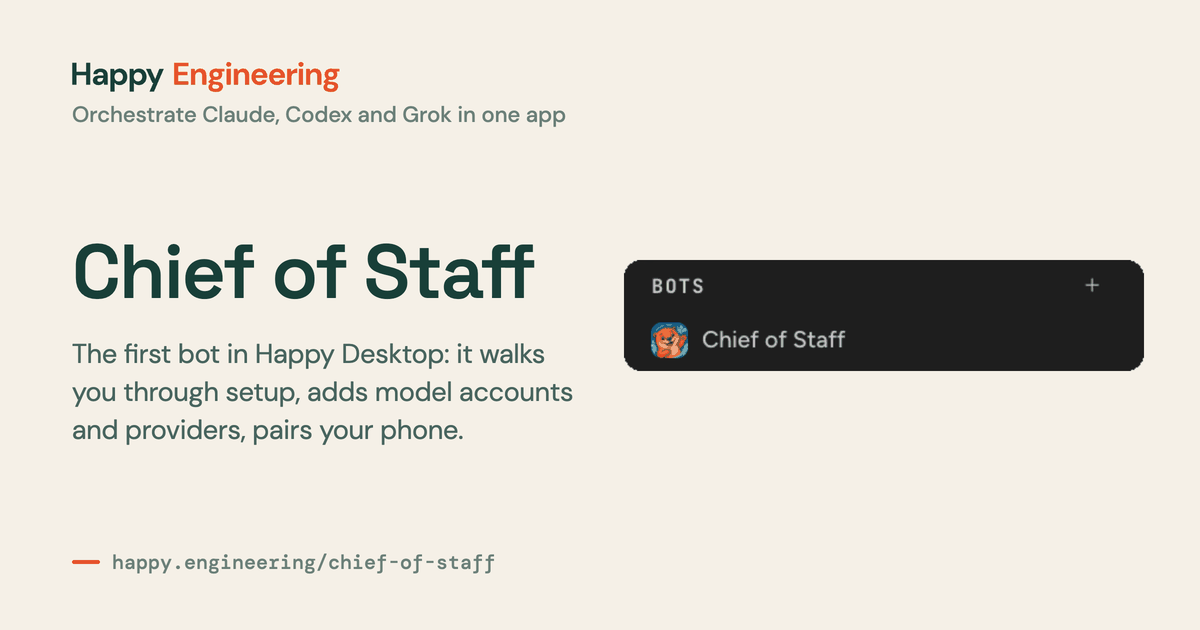
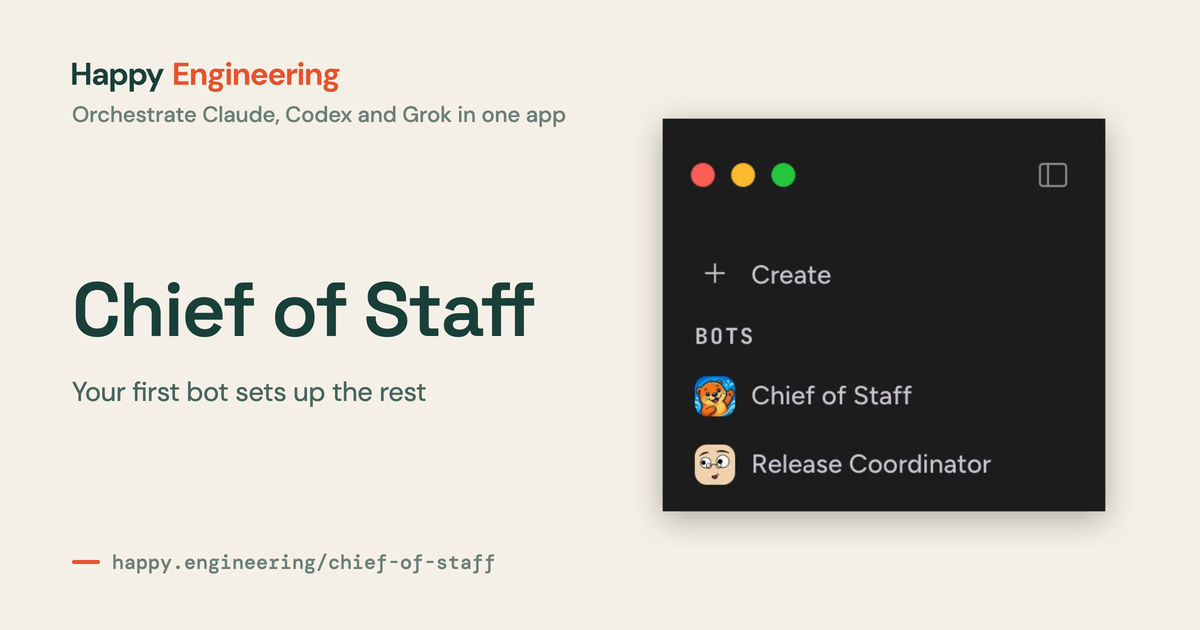
Homepage multiplayer blurb says what we offer; Chief of Staff card gets a full-size sidebar cutout and a selling point
- "Natively multiplayer": deploy a team server, everyone signs in as themselves and shares the
  same projects and sessions (content/desktop/multiplayer.mdx). The per-session invite claim is
  gone from the homepage and the thesis draft.
- cards.py: CARD_FIGURES names a larger card-only cutout in notes/og/figures/ where the page's
  figure is too small; a cardLine also replaces the description on a card with a figure;
  screenshots stay full color.
- chief-of-staff.png: the sidebar from the homepage demo's first frame, and "Your first bot
  sets up the rest".

Changed region(s): [[0.4933, 0.181, 0.9558, 0.8444], [0.0617, 0.3619, 0.4933, 0.6937]]

diff --git a/src/documents.ts b/src/documents.ts
@@ -24,8 +24,8 @@ export interface DocumentEntry {
   /** An essay: rendered with captioned figures, floats, and the pig in its bullet (src/DocumentPages.tsx). */
   essay?: boolean
   /**
-   * A page without a figure: what its link-preview card says under the title, in place of the
-   * description. Four to eight words, benefit first, no closing period (notes/og/cards.py).
+   * What the link-preview card says under the title, in place of the description: four to eight
+   * words, benefit first, no closing period. Required on a page without a figure (notes/og/cards.py).
    */
   cardLine?: string
 }
@@ -212,6 +212,7 @@ const desktopDocuments: DocumentDefinition[] = [
     title: 'Chief of Staff',
     pageTitle: 'Chief of Staff: The Built-In Bot That Sets Up Happy Desktop',
     description: 'The first bot in Happy Desktop: it walks you through setup, adds model accounts and providers, pairs your phone, and deploys servers, in conversation.',
+    cardLine: 'Your first bot sets up the rest',
     group: 'Start here',
   },
   {

diff --git a/src/DesktopApp.tsx b/src/DesktopApp.tsx
@@ -27,7 +27,7 @@ const features = [
   },
   {
     title: 'Natively multiplayer',
-    body: 'Invite a colleague or a friend into the session. You both watch the same agent work, and either of you can steer it.',
+    body: 'Deploy a team server and work together. Everyone signs in as themselves and shares the same projects and sessions.',
   },
 ] as const
 

diff --git a/notes/og/cards.py b/notes/og/cards.py
@@ -1,8 +1,8 @@
 # Writes public/og/<slug>.png, the 1200x630 link preview of every desktop doc: the
 # Happy Engineering wordmark with the descriptor under it, the page's title and description, its URL, and its
-# figure (the first image on the page) on the right. A page without a figure gives the title the
-# full width and puts its cardLine (src/documents.ts) in place of the description. The original
-# CLI docs under /docs/ keep the homepage's card.
+# figure (the first image on the page) on the right. A page's cardLine (src/documents.ts), where it
+# has one, replaces the description; a page without a figure must have one, and gives the title
+# the full width. The original CLI docs under /docs/ keep the homepage's card.
 #
 # Run from the repository root after adding or retitling a desktop doc:
 #   python3 notes/og/cards.py            # every desktop doc
@@ -42,6 +42,11 @@ FONT_FILES = {
 FIGURE_OVERRIDES = {
     "/vision/": "/thesis/layout.svg",
 }
+# Where the page's own figure is too small for a card: a larger cutout kept in notes/og/figures/.
+CARD_FIGURES = {
+    # The sidebar from the homepage demo (public/video/happy-one/v22/desktop.mp4, first frame).
+    "/chief-of-staff/": "/__figures/chief-of-staff-sidebar.png",
+}
 
 W, H = 1200, 630
 # Under the wordmark on every card, as on public/img/tailcat-x.png; src/products.ts HAPPY_DESCRIPTOR.
@@ -79,14 +84,22 @@ def desktop_documents():
 
 def inline_svg(path, width, height):
     """An SVG inlined, not an <img>, so its text uses the fonts loaded here."""
-    source = re.sub(r"<\?xml[^>]*>\s*", "", (PUBLIC / path.lstrip("/")).read_text())
+    source = re.sub(r"<\?xml[^>]*>\s*", "", asset(path).read_text())
     tag = re.search(r"<svg\b[^>]*>", source).group(0)
     sized = re.sub(r'\s(?:width|height)="[^"]*"', "", tag).replace("<svg", f'<svg width="{width:.0f}" height="{height:.0f}"', 1)
     return source.replace(tag, sized, 1)
 
 
+def asset(path):
+    """A path the card loads: a card-only figure, a font, or a file under public/."""
+    for prefix, folder in (("/__figures/", ROOT / "notes/og/figures"), ("/__fonts/", FONTS)):
+        if path.startswith(prefix):
+            return folder / path[len(prefix):]
+    return PUBLIC / path.lstrip("/")
+
+
 def natural_size(path):
-    file = PUBLIC / path.lstrip("/")
+    file = asset(path)
     if file.suffix == ".svg":
         x, y, w, h = map(float, re.search(r'viewBox="([^"]+)"', file.read_text()).group(1).replace(",", " ").split())
         return w, h
@@ -100,6 +113,8 @@ def figure_markup(page):
     override = FIGURE_OVERRIDES.get(page["href"])
     if override:
         figures = [f for f in figures if f["src"] == override]
+    if page["href"] in CARD_FIGURES:
+        figures = [{"src": CARD_FIGURES[page["href"]], "alt": ""}]
     if not figures:
         return 0, ""
     # Portraits (the Team page): every photo, side by side, with its caption.
@@ -127,7 +142,7 @@ def card_html(page):
     copy_w = W - 72 - 56 - 48 - figure_w if figure else W - 2 * 72
     if not figure and not page.get("cardLine"):
         sys.exit(f"{page['href']} has no figure: give it a cardLine in src/documents.ts")
-    text = page["description"] if figure else page["cardLine"]
+    text = page.get("cardLine") or page["description"]
     url = f"happy.engineering{page['href']}".rstrip("/")
     wordmark = (PUBLIC / "brand/happy-engineering-inline-light.svg").read_text()
     return f"""<!doctype html><html><head><meta charset="utf-8"><style>
@@ -157,7 +172,7 @@ p.line {{ display: block; white-space: nowrap; }}
 </style></head><body><div class="card">
 <div class="copy">
   <div class="wordmark">{wordmark}<div class="descriptor">{DESCRIPTOR}</div></div>
-  <div class="text"><h1>{html.escape(page['heading'])}</h1><p{'' if figure else ' class="line"'}>{html.escape(text)}</p></div>
+  <div class="text"><h1>{html.escape(page['heading'])}</h1><p{' class="line"' if page.get("cardLine") else ''}>{html.escape(text)}</p></div>
   <div class="url">{html.escape(url)}</div>
 </div>
 {figure}
@@ -189,7 +204,7 @@ def serve(route):
     path = url.split(SITE, 1)[1].split("?")[0]
     if path == "/__card":
         return route.fulfill(status=200, body=serve.html, content_type="text/html")
-    file = FONTS / path[len("/__fonts/"):] if path.startswith("/__fonts/") else PUBLIC / path.lstrip("/")
+    file = asset(path)
     if not file.is_file():
         return route.fulfill(status=404, body="")
     route.fulfill(status=200, body=file.read_bytes(), content_type=mimetypes.guess_type(str(file))[0] or "application/octet-stream")
@@ -214,8 +229,8 @@ def main():
             png = page.screenshot(clip={"x": 0, "y": 0, "width": W, "height": H})
             # Drawn at 2x and reduced, so thin diagram strokes stay smooth.
             image = Image.open(io.BytesIO(png)).convert("RGB").resize((W, H), Image.LANCZOS)
-            # Drawings and screenshots keep their look in 256 colors at a third of the size; photos stay full color.
-            if ".jpg" not in serve.html:
+            # Drawings keep their look in 256 colors at a third of the size; photos and screenshots stay full color.
+            if "<img " not in serve.html:
                 image = image.quantize(colors=256, method=Image.Quantize.MEDIANCUT, dither=Image.Dither.NONE)
             target = PUBLIC / doc["card"].lstrip("/")
             target.parent.mkdir(parents=True, exist_ok=True)

diff --git a/DESIGN.md b/DESIGN.md
@@ -93,7 +93,8 @@ The short descriptor is **Orchestrate Claude, Codex and Grok in one app** (`HAPP
   - its chevron at the right end, no taller than the text's capitals.
 - **Metadata.** Each page's title, search title, and description (160 characters at most) live in `src/documents.ts`.
 - **Link preview.** Each desktop doc has its own card, `public/og/<path with dashes>.png`: its title, description, and first figure. After adding a page or changing its title, description, or figure, run `python3 notes/og/cards.py <slug>` and commit the PNG; the build fails without it. The original CLI docs under `/docs/` keep the homepage's card. The description is also the page's meta description and preview text, so it states the capability plainly.
-  - A page without a figure gets no logo tile in its place. Its card keeps the header and the URL line, gives the title the full width, and swaps the description for the page's `cardLine` in `src/documents.ts`: one line of four to eight words, benefit first, no closing period, true to the page. `cards.py` stops if the line is missing or wraps.
+  - A page without a figure gets no logo tile in its place. Its card keeps the header and the URL line, gives the title the full width, and swaps the description for the page's `cardLine` in `src/documents.ts`: one line of four to eight words, benefit first, no closing period, true to the page. `cards.py` stops if the line is missing or wraps. A page with a figure may have a `cardLine` too.
+  - A screenshot too small to carry a card gets a larger cutout of the same UI in `notes/og/figures/`, named in `CARD_FIGURES` in `cards.py`. It fills the right side the way a diagram does.
   - After changing cards that are already shared, bump `SOCIAL_IMAGE_VERSION` in `src/siteMetadata.ts` and the `?v=` on the homepage image in `index.html`, so X, Slack, and LinkedIn fetch them again.
 - **The Blog** is the last sidebar group, with no list page. Each post gets a one-word slug you can type from memory: `/workos/`, `/tailcat/`, `/voice/`.
 - **URLs don't break.** `routes.txt` only grows. A shared URL keeps working when its page moves: `/team-sign-in-workos/` redirects to `/workos/`.

diff --git a/notes/thesis/sections-v5/multiplayer-is-hard.md b/notes/thesis/sections-v5/multiplayer-is-hard.md
@@ -2,7 +2,7 @@
 
 Agents need permissions to do anything. If you let someone talk to your agent, that person now has its permissions. If agents message other agents, those agents need permissions too. Should an automatic reviewer approve an agent asking for more access? Whose commit is it when several people work from the same server?
 
-Group chats in ChatGPT and Claude in Slack already put several people in front of one AI. In Happy you can invite someone into a session today, but the agent still runs on your machine with your permissions. For a whole team, we keep the trust question simple: a team that trusts each other runs a [shared server](https://happy.engineering/desktop/docs/multiplayer/). Everyone connects with their own identity, and every command runs under the same sandbox and review. It's a start, not an answer.
+Group chats in ChatGPT and Claude in Slack already put several people in front of one AI. In Happy you can share your own machine today, but whoever connects acts as you, with your accounts and permissions. For a whole team, we keep the trust question simple: a team that trusts each other runs a [shared server](https://happy.engineering/desktop/docs/multiplayer/). Everyone connects with their own identity, and every command runs under the same sandbox and review. It's a start, not an answer.
 
 [OpenClaw Enterprise](https://openclaw.ai/blog/openclaw-enterprise), announced September 29, goes further: each agent gets its own identity, and agents and credentials live in separate namespaces with roles. We think that's the right direction. Permissions should belong to the agent, not to whoever happens to be talking to it.
 
